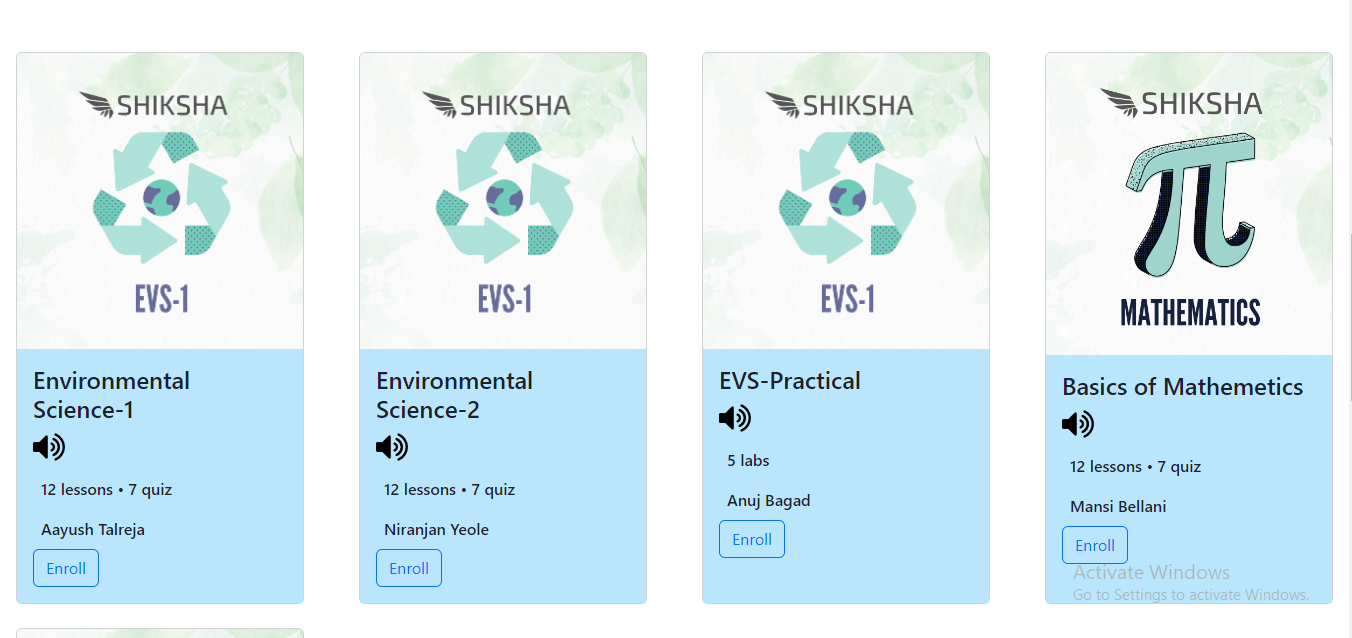
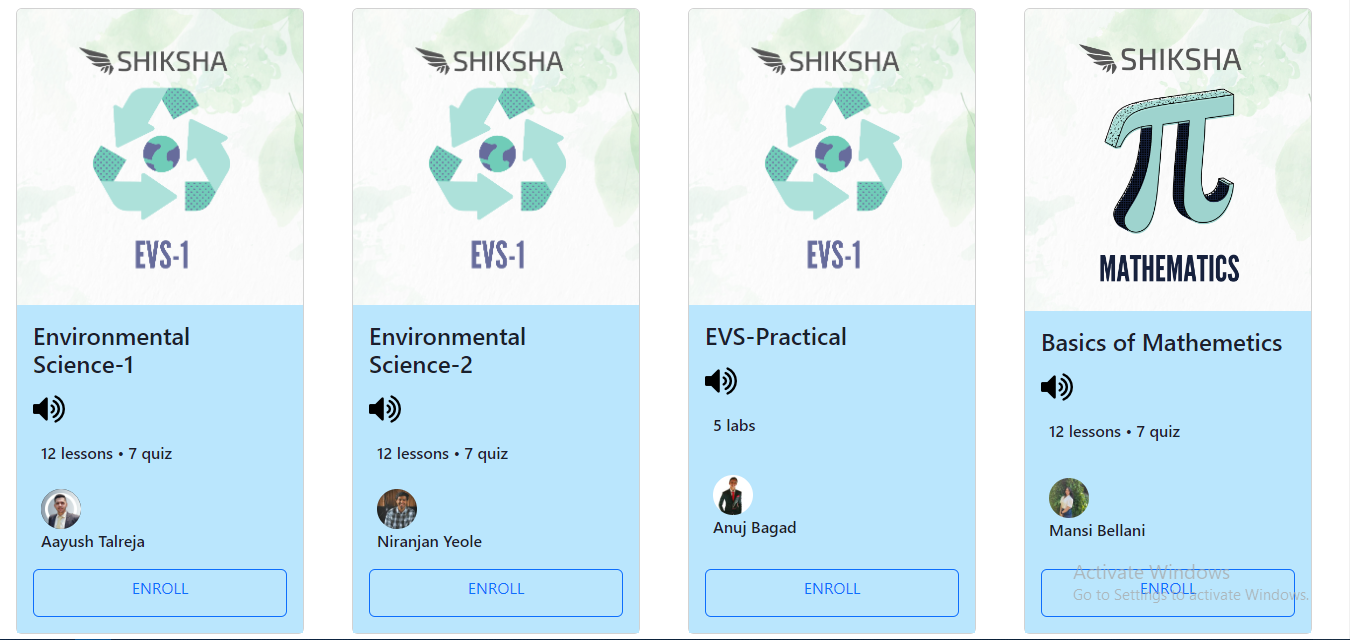
minor

diff --git a/src/MyPages/Footer.js b/src/MyPages/Footer.js
@@ -1,58 +1,95 @@
 import React from 'react'
 import { FaLinkedin,FaFacebookSquare,FaInstagramSquare,FaTwitterSquare } from "react-icons/fa";
 import {Link,NavLink} from "react-router-dom"
-import logo from '.././images/whitelogo.png'
+import logo from '.././images/blacklogo.png'
+import logo1 from '.././images/blacklogomirror.png'
 
 const Footer = () => {
   return (
-    <div className='bg-gray-800'>
-    <div className='bg-gradient-to-t py-6 px-4 grid lg:grid-cols-2 gap-30 text-gray-200'>
-        <div>
-              <img className="h-8" src={logo} alt='logo'/>
-            <p className='block ml-5 mt-2'>
-            Empowering Abilities, Unlocking Potential: Education for All! <br></br>
-            Shiksha is designed in such a way that it is accessible to students with various difficulties, like visual, auditory etc. <br></br>
-</p>
-            <div className='flex justify-start mt-4 ml-5'>
-                <FaFacebookSquare size={30}/>
-                <FaLinkedin size={30}/>
-                <FaInstagramSquare size={30}/>
-                <FaTwitterSquare size={30}/>
-            </div>      
-        </div>
-    <div className="flex-grow flex flex-wrap md:pl-20 -mb-10 md:mt-0 mt-10 md:text-left text-center justify-evenly">
-      <div className="lg:w-1/4 md:w-1/2 w-full px-2">
-        <h2 className="title-font font-medium text-white text-lg mb-3 underline">Quick Links</h2>
-        <nav className="list-none gap-2 mb-6">
-          <li>
-            <a className="text-white hover:text-gray-800 p-2 no-underline">About </a>
-          </li>
-          <li>
-            <a className="text-white hover:text-gray-800 p-2 no-underline"><Link to="/headlines" class="nav-link active">Headlines</Link></a>
-          </li>
-          <li>
-            <a className="text-white hover:text-gray-800 p-2 no-underline">Testimonials</a>
-          </li>
-        </nav>
-      </div>
-      <div className="lg:w-1/4 md:w-1/2 w-full">
-        <h2 className="title-font font-medium text-white tracking-widest text-lg mb-3 underline">Home</h2>
-        <nav className="list-none gap-2  mb-6">
-          <li>
-            <a className="text-white hover:text-gray-400 no-underline p-2" href='#'>Disclaimer</a>
-          </li>
-          <li>
-            <a className="text-white  hover:text-gray-500 no-underline p-2" href='#'><Link to="/govtpolicy" class="nav-link active">Government policies</Link></a>
-          </li>
-          <li>
-            <a className="text-white hover:text-gray-800 no-underline p-2"><Link to="/donation" class="nav-link active">Donate Us</Link></a>
-          </li>          
-        </nav>
-      </div>
-     </div>    
+//     <div className='bg-gray-800'>
+//     <div className='bg-gradient-to-t py-6 px-4 grid lg:grid-cols-2 gap-30 text-gray-200'>
+//         <div>
+//               <img className="h-8" src={logo} alt='logo'/>
+//             <p className='block ml-5 mt-2'>
+//             Empowering Abilities, Unlocking Potential: Education for All! <br></br>
+//             Shiksha is designed in such a way that it is accessible to students with various difficulties, like visual, auditory etc. <br></br>
+// </p>
+//             <div className='flex justify-start mt-4 ml-5'>
+//                 <FaFacebookSquare size={30}/>
+//                 <FaLinkedin size={30}/>
+//                 <FaInstagramSquare size={30}/>
+//                 <FaTwitterSquare size={30}/>
+//             </div>      
+//         </div>
+//     <div className="flex-grow flex flex-wrap md:pl-20 -mb-10 md:mt-0 mt-10 md:text-left text-center justify-evenly">
+//       <div className="lg:w-1/4 md:w-1/2 w-full px-2">
+//         <h2 className="title-font font-medium text-white text-lg mb-3 underline">Quick Links</h2>
+//         <nav className="list-none gap-2 mb-6">
+//           <li>
+//             <a className="text-white hover:text-gray-800 p-2 no-underline">About </a>
+//           </li>
+//           <li>
+//             <a className="text-white hover:text-gray-800 p-2 no-underline"><Link to="/headlines" class="nav-link active">Headlines</Link></a>
+//           </li>
+//           <li>
+//             <a className="text-white hover:text-gray-800 p-2 no-underline">Testimonials</a>
+//           </li>
+//         </nav>
+//       </div>
+//       <div className="lg:w-1/4 md:w-1/2 w-full">
+//         <h2 className="title-font font-medium text-white tracking-widest text-lg mb-3 underline">Home</h2>
+//         <nav className="list-none gap-2  mb-6">
+//           <li>
+//             <a className="text-white hover:text-gray-400 no-underline p-2" href='#'>Disclaimer</a>
+//           </li>
+//           <li>
+//             <a className="text-white  hover:text-gray-500 no-underline p-2" href='#'><Link to="/govtpolicy" class="nav-link active">Government policies</Link></a>
+//           </li>
+//           <li>
+//             <a className="text-white hover:text-gray-800 no-underline p-2"><Link to="/donation" class="nav-link active">Donate Us</Link></a>
+//           </li>          
+//         </nav>
+//       </div>
+//      </div>    
+//     </div>
+//     </div>
+<>
+<footer className="footer p-10 bg-base-200 text-base-content">
+  <div>
+    <span className="footer-title">Services</span> 
+    <a className="link link-hover">Branding</a> 
+    <a className="link link-hover">Design</a> 
+    <a className="link link-hover">Marketing</a> 
+    <a className="link link-hover">Advertisement</a>
+  </div> 
+  <div>
+    <span className="footer-title">Company</span> 
+    <a className="link link-hover">About us</a> 
+    <a className="link link-hover">Contact</a> 
+    <a className="link link-hover">Jobs</a> 
+    <a className="link link-hover">Press kit</a>
+  </div> 
+  <div>
+    <span className="footer-title">Legal</span> 
+    <a className="link link-hover">Terms of use</a> 
+    <a className="link link-hover">Privacy policy</a> 
+    <a className="link link-hover">Cookie policy</a>
+  </div>
+</footer> 
+<footer className="footer px-10 py-4 border-t bg-base-200 text-base-content border-base-300">
+  <div className="items-center grid-flow-col">
+    <img className="h-8" src={logo} alt='logo'/>
+    <p>Empowering Abilities,<br/> Unlocking Potential: Education for All</p><img className="h-8" src={logo1} alt='logo mirror'/>
+  </div> 
+  <div className="md:place-self-center md:justify-self-end">
+    <div className="grid grid-flow-col gap-4">
+      <a><svg xmlns="http://www.w3.org/2000/svg" width="24" height="24" viewBox="0 0 24 24" className="fill-current"><path d="M24 4.557c-.883.392-1.832.656-2.828.775 1.017-.609 1.798-1.574 2.165-2.724-.951.564-2.005.974-3.127 1.195-.897-.957-2.178-1.555-3.594-1.555-3.179 0-5.515 2.966-4.797 6.045-4.091-.205-7.719-2.165-10.148-5.144-1.29 2.213-.669 5.108 1.523 6.574-.806-.026-1.566-.247-2.229-.616-.054 2.281 1.581 4.415 3.949 4.89-.693.188-1.452.232-2.224.084.626 1.956 2.444 3.379 4.6 3.419-2.07 1.623-4.678 2.348-7.29 2.04 2.179 1.397 4.768 2.212 7.548 2.212 9.142 0 14.307-7.721 13.995-14.646.962-.695 1.797-1.562 2.457-2.549z"></path></svg></a> 
+      <a><svg xmlns="http://www.w3.org/2000/svg" width="24" height="24" viewBox="0 0 24 24" className="fill-current"><path d="M19.615 3.184c-3.604-.246-11.631-.245-15.23 0-3.897.266-4.356 2.62-4.385 8.816.029 6.185.484 8.549 4.385 8.816 3.6.245 11.626.246 15.23 0 3.897-.266 4.356-2.62 4.385-8.816-.029-6.185-.484-8.549-4.385-8.816zm-10.615 12.816v-8l8 3.993-8 4.007z"></path></svg></a>
+      <a><svg xmlns="http://www.w3.org/2000/svg" width="24" height="24" viewBox="0 0 24 24" className="fill-current"><path d="M9 8h-3v4h3v12h5v-12h3.642l.358-4h-4v-1.667c0-.955.192-1.333 1.115-1.333h2.885v-5h-3.808c-3.596 0-5.192 1.583-5.192 4.615v3.385z"></path></svg></a>
     </div>
-    </div>
-    
+  </div>
+</footer>
+</>
   )
 }
 

diff --git a/src/MyComponents/Catalogue.js b/src/MyComponents/Catalogue.js
@@ -2,6 +2,7 @@ import React from "react";
 import { Card } from "react-bootstrap";
 import {Link,NavLink} from "react-router-dom"
 import vol from './../images/volume.png' 
+import profile from './../images/profile.png' 
 import { useSpeechSynthesis } from "react-speech-kit";
 
 function Catalogue() {
@@ -44,6 +45,7 @@ function Catalogue() {
             12 lessons • 7 quiz
             </p>
             <p class="card-text p-2">
+            <img className="h-30 w-10 rounded-full" src='https://media.licdn.com/dms/image/C4D03AQGjVJnZjakikg/profile-displayphoto-shrink_200_200/0/1657648501282?e=1685577600&v=beta&t=GZVLCtCI6mAVh0T4uTBJODcNWased_DRS3pxg73A7Vk' alt="" />
             Aayush Talreja
             </p>
             <a href="videos" class="btn btn-outline-primary">
@@ -62,7 +64,7 @@ function Catalogue() {
             12 lessons • 7 quiz
             </p>
             <p class="card-text p-2">
-             
+            <img className="h-30 w-10 rounded-full" src='https://media.licdn.com/dms/image/C4E03AQFMaAxosx5O8A/profile-displayphoto-shrink_100_100/0/1642847850390?e=1685577600&v=beta&t=LDCn4WpFeU6vUMdAP6e9nQf4Cdz4DNs6zvy52GHkwVI' alt="" />
             Niranjan Yeole
             </p>
             <a href="videos" class="btn btn-outline-primary">
@@ -81,7 +83,7 @@ function Catalogue() {
             5 labs
             </p>
             <p class="card-text p-2">
-              
+            <img className="h-30 w-10 rounded-full" src='https://media.licdn.com/dms/image/C4D03AQG7ln3Kb53VZA/profile-displayphoto-shrink_100_100/0/1641273867979?e=1685577600&v=beta&t=QRlrRpePXwAuUynmY0zhCahF2ZU4cKns6uUqbDMdIZE' alt="" />
             Anuj Bagad
             </p>
             <a href="videos" class="btn btn-outline-primary">
@@ -100,7 +102,7 @@ function Catalogue() {
             12 lessons • 7 quiz
             </p>
             <p class="card-text p-2">
-              
+            <img className="h-30 w-10 rounded-full" src='https://media.licdn.com/dms/image/D4D03AQG3tgMaLVMfug/profile-displayphoto-shrink_100_100/0/1666875030217?e=1685577600&v=beta&t=vfoT736oR7cZXkuDcl9J6ZSnJIOaJzpkaJ1D-Y6qh_0' alt="" />
             Mansi Bellani
             </p>
             <a href="videos" class="btn btn-outline-primary">
@@ -120,7 +122,7 @@ function Catalogue() {
             12 lessons • 7 quiz
             </p>
             <p class="card-text p-2">
-              
+            <img className="h-30 w-10 rounded-full" src={profile} alt="" />
             Shams Tabrez
             </p>
             <a href="videos" class="btn btn-outline-primary">
@@ -140,6 +142,7 @@ function Catalogue() {
             10 lessons • 5 quizes
             </p>
             <p class="card-text p-2">
+            <img className="h-30 w-10 rounded-full" src={profile} alt="" />
             Shams Tabrez
             </p>
             <a href="videos" class="btn btn-outline-primary">
@@ -159,6 +162,7 @@ function Catalogue() {
             10 lessons • 5 quizes
             </p>
             <p class="card-text p-2">
+            <img className="h-30 w-10 rounded-full" src={profile} alt="" />
             Shams Tabrez
             </p>
             <a href="videos" class="btn btn-outline-primary">
@@ -166,7 +170,16 @@ function Catalogue() {
             </a>
           </div>
         </div>
-
+        {/* <div className="card lg:card-side bg-base-100 shadow-xl">
+  <figure><img src="/evs.png" className='h-80' alt="Album"/></figure>
+  <div className="card-body">
+    <h2 className="card-title">New album is released!</h2>
+    <p>Click the button to listen on Spotiwhy app.</p>
+    <div className="card-actions justify-end">
+      <button className="btn btn-primary">Listen</button>
+    </div>
+  </div>
+</div> */}
       </div>
     </div>
   );

diff --git a/tailwind.config.js b/tailwind.config.js
@@ -4,5 +4,5 @@ module.exports = {
   theme: {
     extend: {},
   },
-  plugins: [],
+  plugins: [require("daisyui")],
 }

diff --git a/README.md b/README.md
@@ -13,7 +13,7 @@
 
 <hr>
 
-## Screenshots (Course Catalogue)
+## Screenshots (Courses)
 <img src = "src/images/ss/ss8.png" />
 <img src = "src/images/ss/ss9.png" />
 <img src = "src/images/ss/ss9=10.png" />
